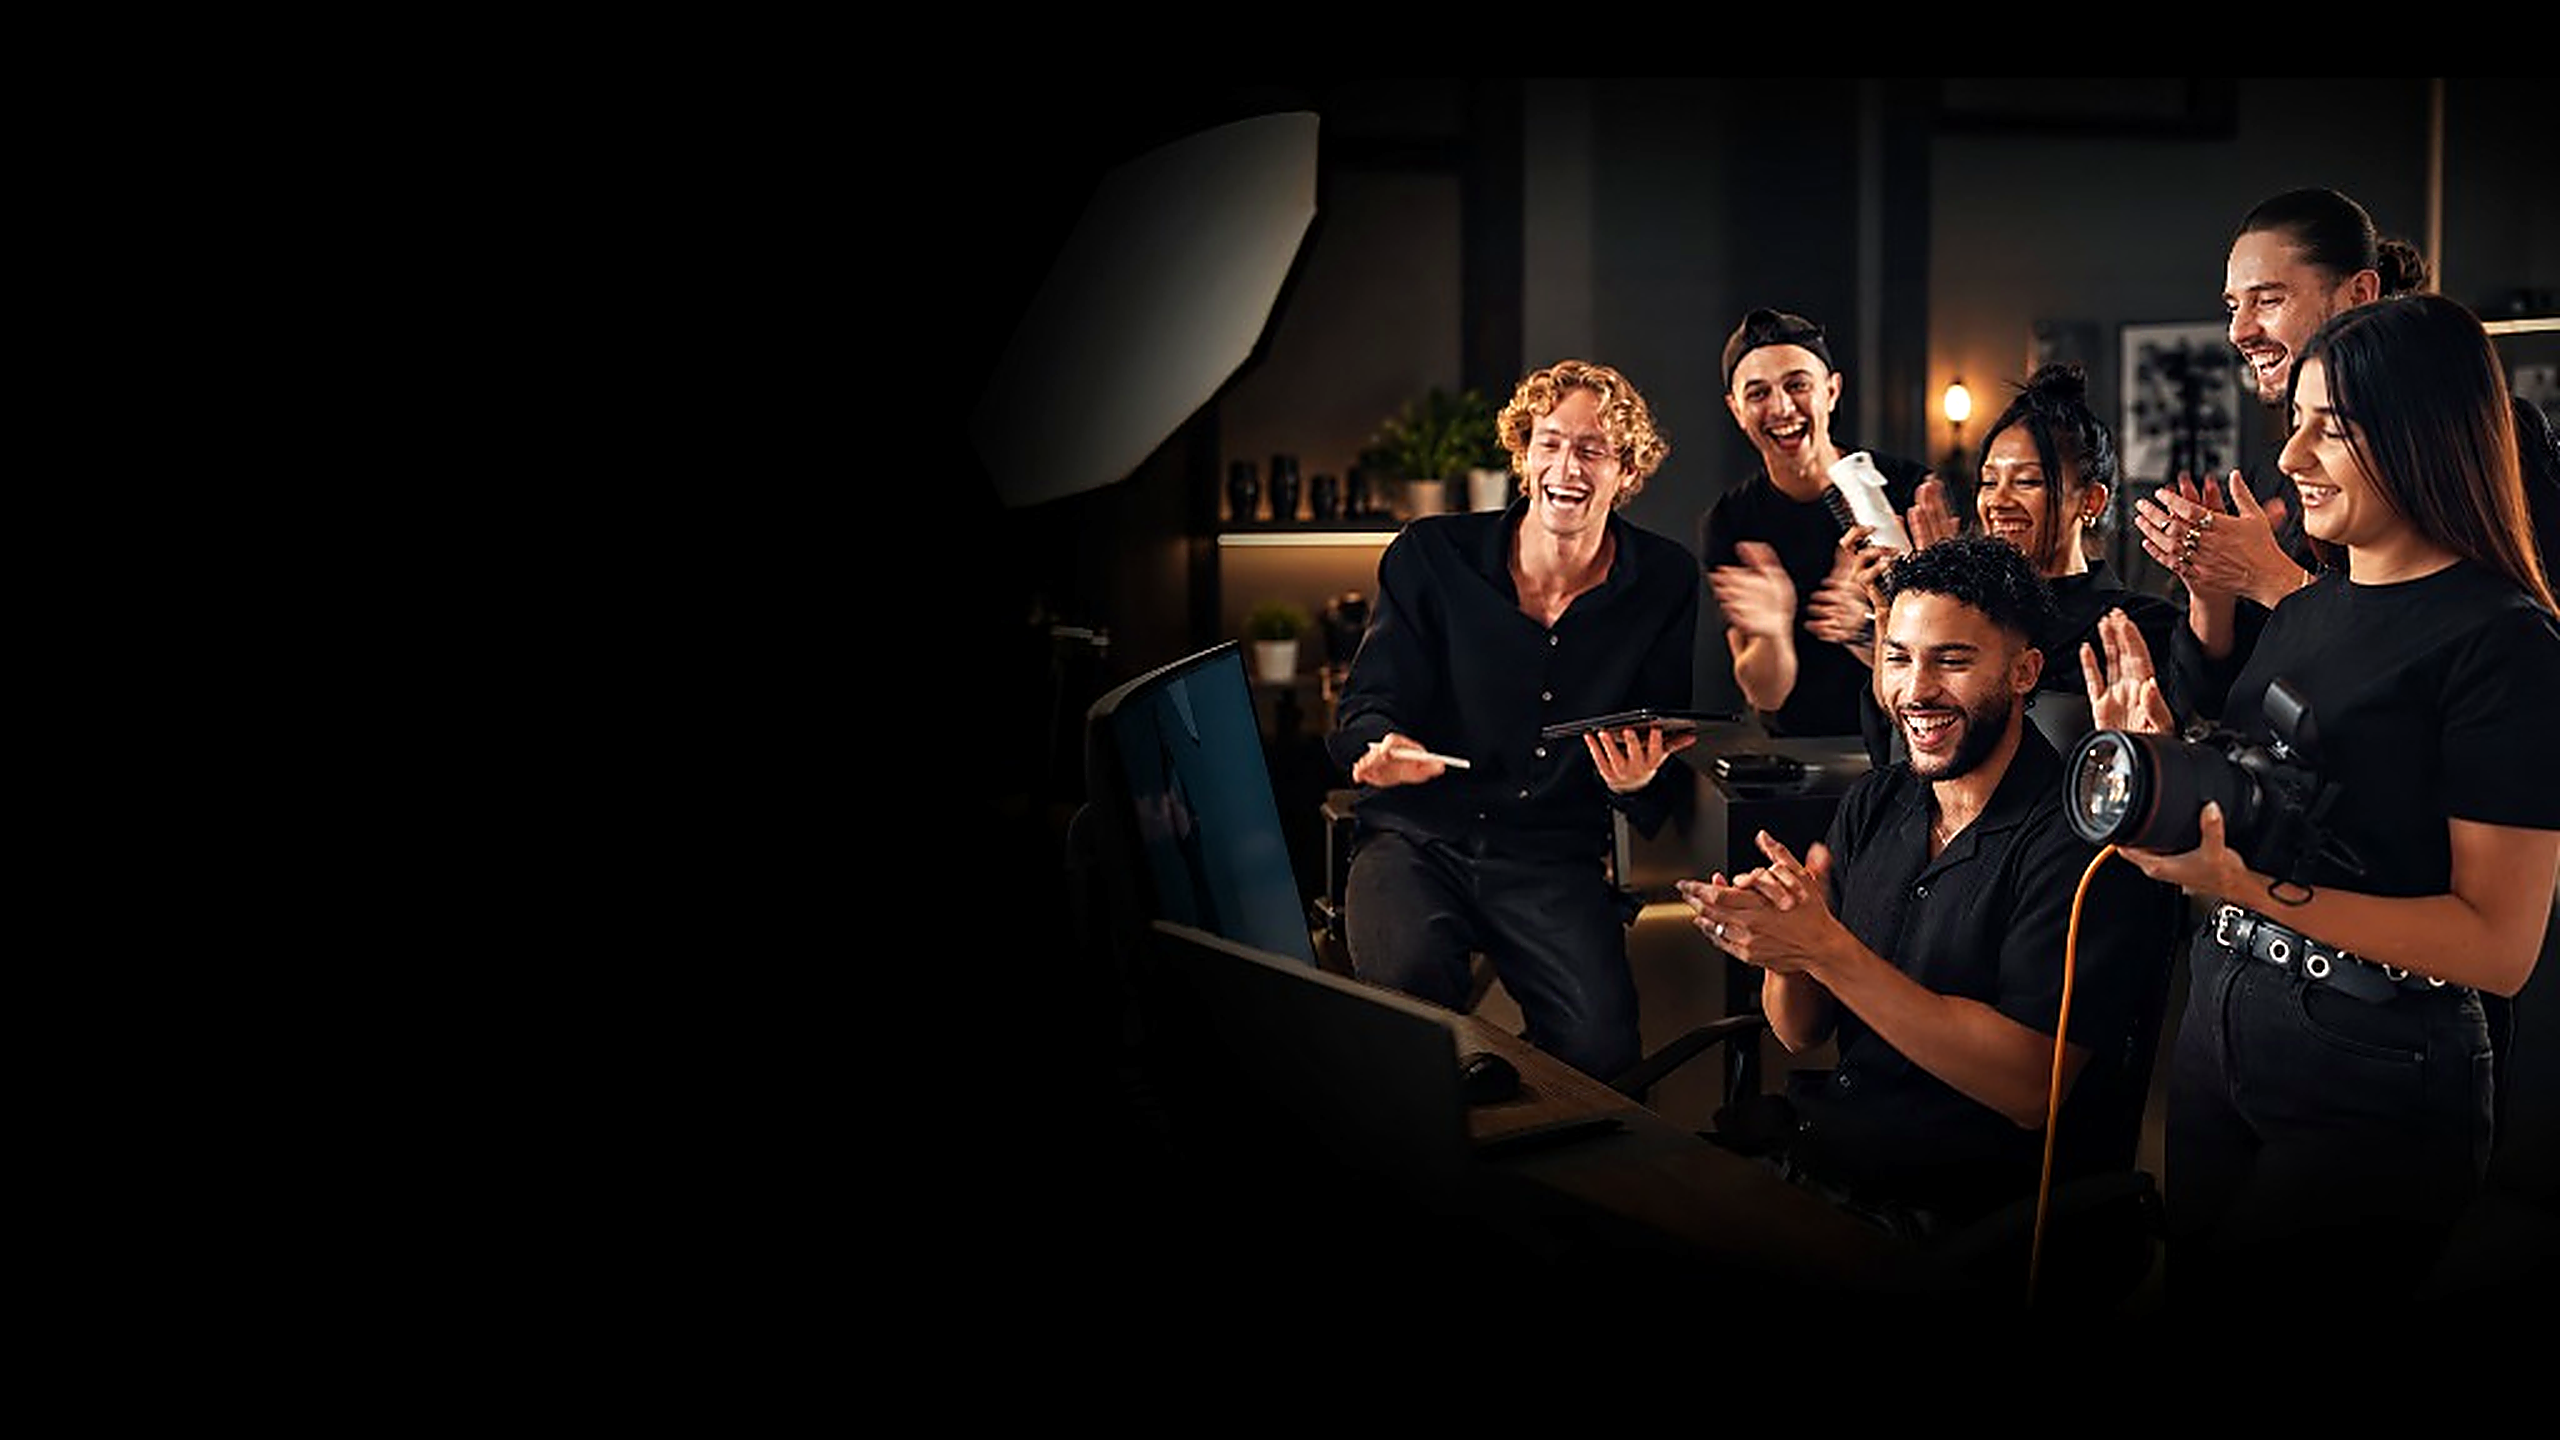
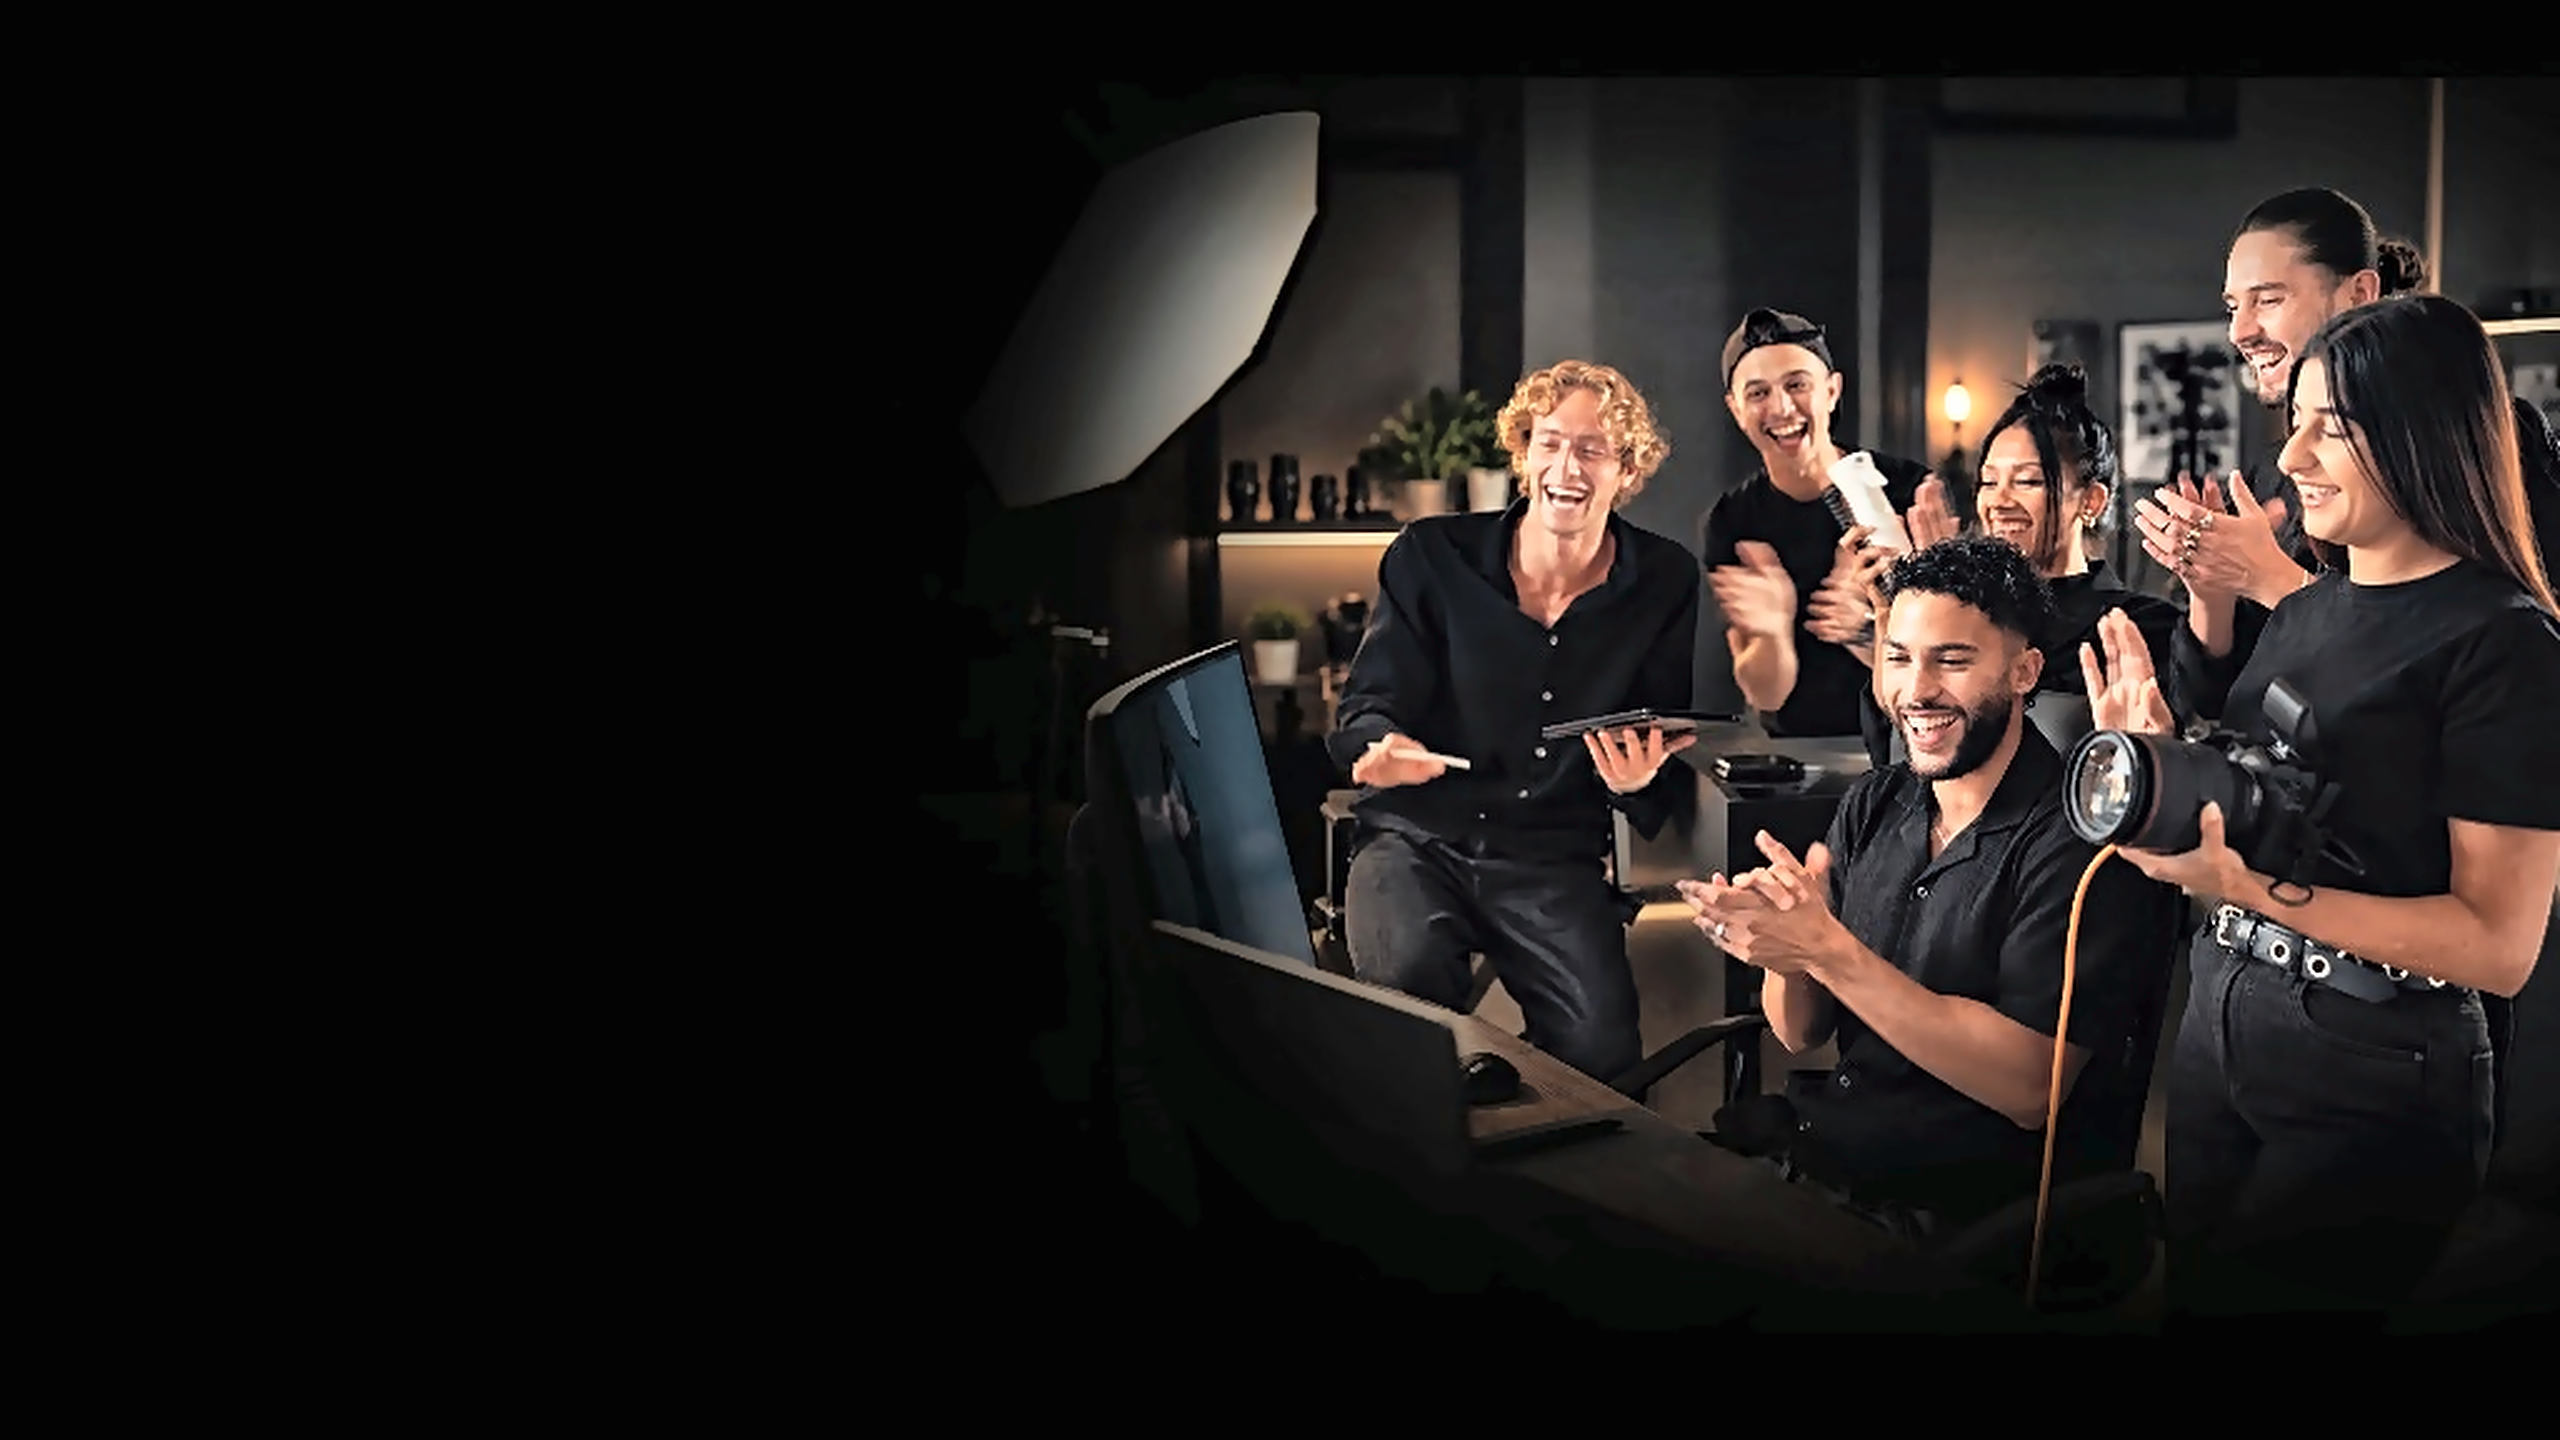
Enhance hero section image clarity with LAB CLAHE, unsharp masking, and responsive overlay tuning

Changed region(s): [[0.4062, 0.0625, 1.0, 0.8438]]

diff --git a/css/style.css b/css/style.css
@@ -1451,12 +1451,11 @@ p.hero-slide-side {
     }
     .hero-bg {
         height: 100%;
-        background-image: url('../assets/hero_banner_mobile.webp');
-        background-position: center 25%;
+        background-image: url('../assets/hero_banner.webp');
+        background-position: center right;
     }
     .hero-overlay {
-        background: linear-gradient(180deg, rgba(18, 18, 18, 0.92) 0%, rgba(18, 18, 18, 0.78) 45%, rgba(18, 18, 18, 0.35) 70%, rgba(18, 18, 18, 0.92) 100%),
-                    linear-gradient(90deg, rgba(18, 18, 18, 0.88) 0%, rgba(18, 18, 18, 0.25) 100%);
+        background: linear-gradient(90deg, rgba(18, 18, 18, 0.98) 0%, rgba(18, 18, 18, 0.85) 40%, rgba(18, 18, 18, 0.2) 65%, rgba(18, 18, 18, 0) 80%, rgba(18, 18, 18, 0) 100%);
     }
     .hero-content {
         max-width: 580px;
@@ -1540,10 +1539,10 @@ p.hero-slide-side {
     .hero-bg {
         height: 100%;
         background-image: url('../assets/hero_banner_mobile.webp');
-        background-position: center 30%;
+        background-position: center bottom;
     }
     .hero-overlay {
-        background: linear-gradient(180deg, rgba(18, 18, 18, 0.95) 0%, rgba(18, 18, 18, 0.80) 38%, rgba(18, 18, 18, 0.15) 60%, rgba(18, 18, 18, 0) 75%, rgba(18, 18, 18, 0.9) 100%);
+        background: linear-gradient(180deg, rgba(18, 18, 18, 0.98) 0%, rgba(18, 18, 18, 0.85) 30%, rgba(18, 18, 18, 0.1) 50%, rgba(18, 18, 18, 0) 65%, rgba(18, 18, 18, 0.8) 100%);
     }
     .hero-content {
         text-align: left;
